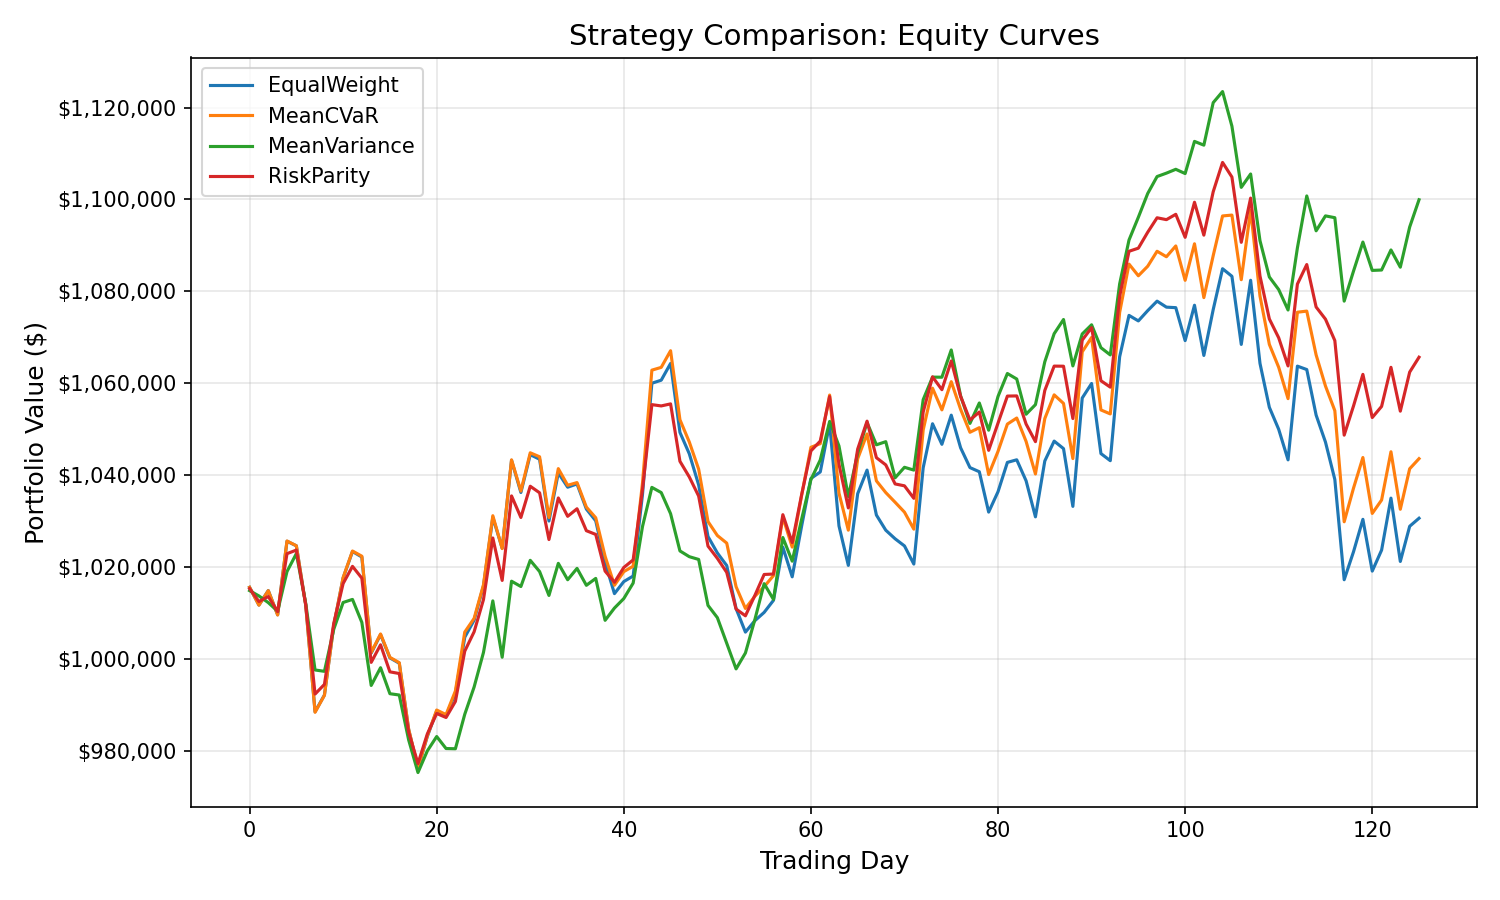
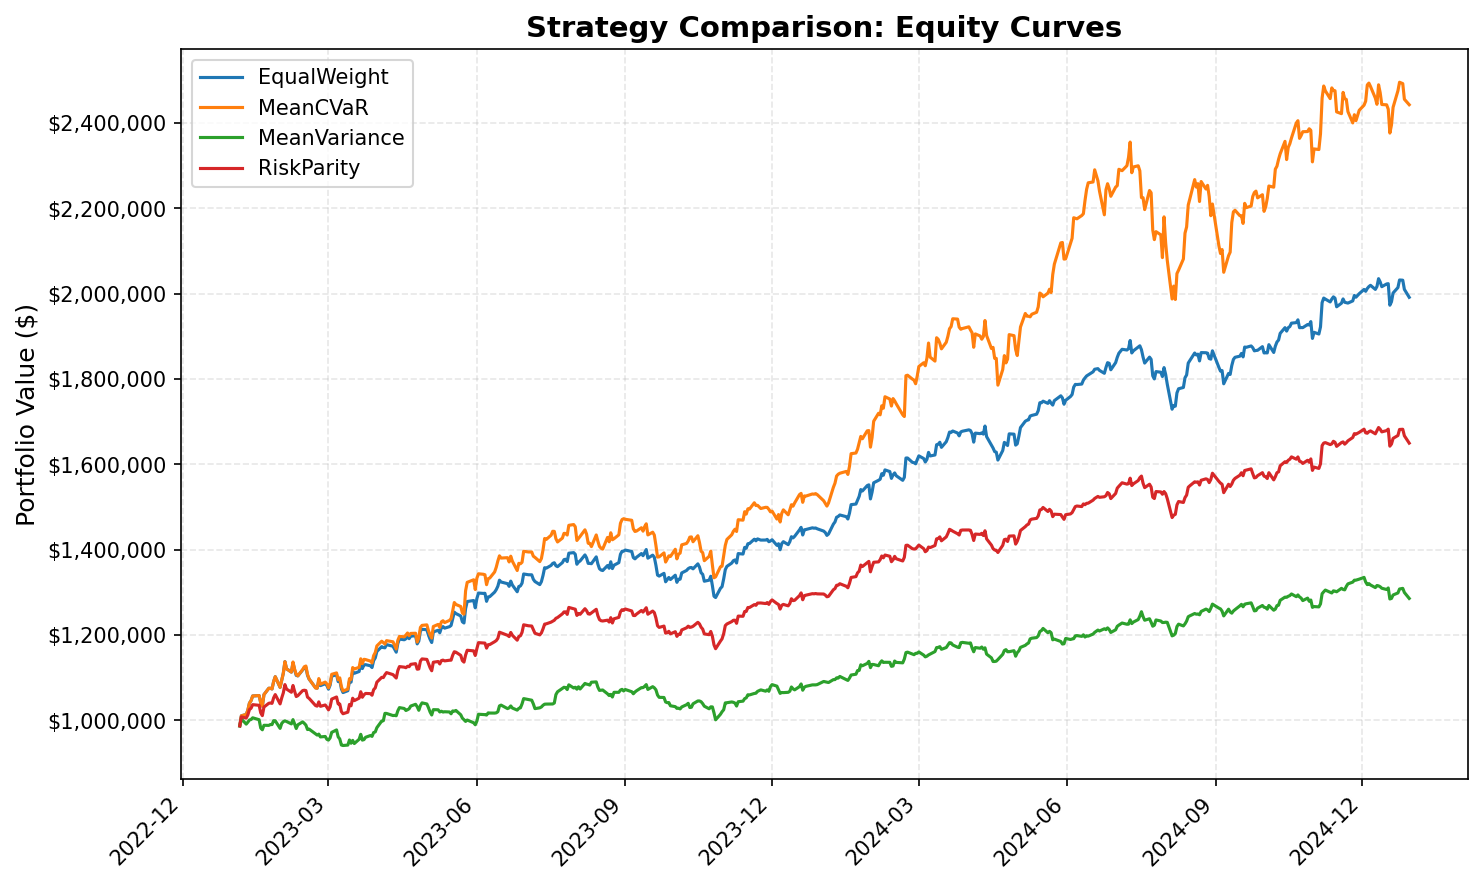
Add real S&P 500 data pipeline, update docs and output images
- Add scripts/download_data.py (yfinance downloader for 10 multi-sector stocks)
- Add config/optimize_sp500.json and config/backtest_sp500.json
- Update plot scripts: real date x-axis, improved styling
- Regenerate docs/images/ from real 2022-2024 market data
- Update README with real examples, backtest comparison table, data download instructions

diff --git a/scripts/plot_backtest.py b/scripts/plot_backtest.py
@@ -10,8 +10,10 @@ import argparse
 import glob
 import os
 import sys
+from datetime import datetime
 
 import matplotlib.pyplot as plt
+import matplotlib.dates as mdates
 import numpy as np
 
 
@@ -22,6 +24,16 @@ def load_equity_curve(csv_path):
     dates = data["date"]
     values = data["portfolio_value"]
     return dates, values
+
+
+def parse_dates(date_strings):
+    """Try to parse date strings into datetime objects."""
+    for fmt in ("%Y-%m-%d", "%Y/%m/%d", "%m/%d/%Y"):
+        try:
+            return [datetime.strptime(d, fmt) for d in date_strings]
+        except ValueError:
+            continue
+    return None
 
 
 def main():
@@ -46,14 +58,28 @@ def main():
         strategy = basename.replace("_equity.csv", "")
 
         dates, values = load_equity_curve(csv_path)
-        x = np.arange(len(dates))
-        ax.plot(x, values, linewidth=1.5, label=strategy)
 
-    ax.set_xlabel("Trading Day", fontsize=12)
+        # Try to parse real dates for x-axis.
+        parsed = parse_dates(dates)
+        if parsed is not None:
+            ax.plot(parsed, values, linewidth=1.5, label=strategy)
+        else:
+            x = np.arange(len(dates))
+            ax.plot(x, values, linewidth=1.5, label=strategy)
+
+    # Format x-axis based on whether we have real dates.
+    if parsed is not None:
+        ax.xaxis.set_major_locator(mdates.MonthLocator(interval=3))
+        ax.xaxis.set_major_formatter(mdates.DateFormatter("%Y-%m"))
+        fig.autofmt_xdate(rotation=45)
+    else:
+        ax.set_xlabel("Trading Day", fontsize=12)
+
     ax.set_ylabel("Portfolio Value ($)", fontsize=12)
-    ax.set_title("Strategy Comparison: Equity Curves", fontsize=14)
+    ax.set_title("Strategy Comparison: Equity Curves", fontsize=14,
+                 fontweight="bold")
     ax.legend(fontsize=10)
-    ax.grid(True, alpha=0.3)
+    ax.grid(True, alpha=0.3, linestyle="--")
 
     # Format y-axis as currency.
     ax.yaxis.set_major_formatter(
@@ -61,7 +87,7 @@ def main():
 
     plt.tight_layout()
     if args.output:
-        plt.savefig(args.output, dpi=150)
+        plt.savefig(args.output, dpi=150, bbox_inches="tight")
         print(f"Saved to {args.output}")
     else:
         plt.show()

diff --git a/scripts/download_data.py b/scripts/download_data.py
@@ -1,0 +1,60 @@
+#!/usr/bin/env python3
+"""Download real S&P 500 stock data for portfolio optimization demos.
+
+Downloads daily adjusted close prices for 10 multi-sector S&P 500 stocks
+using yfinance, and writes a wide-format CSV compatible with csv_loader.cpp.
+
+Usage:
+    pip install -r scripts/requirements.txt
+    python scripts/download_data.py
+"""
+
+import sys
+from pathlib import Path
+
+import yfinance as yf
+
+OUTPUT_PATH = Path(__file__).resolve().parent.parent / "data" / "sp500_prices.csv"
+
+# 10 S&P 500 stocks across sectors.
+TICKERS = ["AAPL", "MSFT", "NVDA", "GOOG", "JPM", "JNJ", "XOM", "PG", "AMZN", "V"]
+
+START_DATE = "2022-01-01"
+END_DATE = "2024-12-31"
+
+
+def main():
+    print(f"Downloading {len(TICKERS)} tickers: {', '.join(TICKERS)}")
+    print(f"Date range: {START_DATE} to {END_DATE}")
+
+    df = yf.download(TICKERS, start=START_DATE, end=END_DATE, auto_adjust=True)
+
+    # yfinance returns MultiIndex columns (Price, Ticker) -- extract Close.
+    if isinstance(df.columns, __import__("pandas").MultiIndex):
+        df = df["Close"]
+
+    # Ensure column order matches our ticker list.
+    df = df[TICKERS]
+
+    # Drop rows with any NaN (holidays, missing data).
+    n_before = len(df)
+    df = df.dropna()
+    n_after = len(df)
+    if n_before != n_after:
+        print(f"Dropped {n_before - n_after} rows with missing data")
+
+    # Write wide-format CSV: Date,AAPL,MSFT,...
+    OUTPUT_PATH.parent.mkdir(parents=True, exist_ok=True)
+    df.index.name = "Date"
+    df.to_csv(OUTPUT_PATH, float_format="%.4f")
+
+    print(f"\nSummary:")
+    print(f"  Rows:    {len(df)}")
+    print(f"  Tickers: {list(df.columns)}")
+    print(f"  From:    {df.index[0].strftime('%Y-%m-%d')}")
+    print(f"  To:      {df.index[-1].strftime('%Y-%m-%d')}")
+    print(f"  Written: {OUTPUT_PATH}")
+
+
+if __name__ == "__main__":
+    main()

diff --git a/scripts/plot_frontier.py b/scripts/plot_frontier.py
@@ -30,23 +30,25 @@ def main():
     cvars = data["cvar"] * 100
 
     fig, ax = plt.subplots(figsize=(8, 5))
-    ax.plot(cvars, returns, "b-o", markersize=6, linewidth=1.5)
+    ax.plot(cvars, returns, "b-o", markersize=7, linewidth=2, zorder=3)
     ax.set_xlabel("CVaR (95%) [%]", fontsize=12)
     ax.set_ylabel("Expected Return [%]", fontsize=12)
-    ax.set_title("Mean-CVaR Efficient Frontier", fontsize=14)
-    ax.grid(True, alpha=0.3)
+    ax.set_title("Mean-CVaR Efficient Frontier", fontsize=14, fontweight="bold")
+    ax.grid(True, alpha=0.3, linestyle="--")
 
     # Annotate endpoints.
     ax.annotate(f"Min risk\n{cvars[0]:.2f}%",
                 xy=(cvars[0], returns[0]),
-                textcoords="offset points", xytext=(15, -10), fontsize=9)
+                textcoords="offset points", xytext=(15, -10), fontsize=9,
+                arrowprops=dict(arrowstyle="->", color="grey", lw=0.8))
     ax.annotate(f"Max return\n{returns[-1]:.2f}%",
                 xy=(cvars[-1], returns[-1]),
-                textcoords="offset points", xytext=(15, -10), fontsize=9)
+                textcoords="offset points", xytext=(15, -10), fontsize=9,
+                arrowprops=dict(arrowstyle="->", color="grey", lw=0.8))
 
     plt.tight_layout()
     if args.output:
-        plt.savefig(args.output, dpi=150)
+        plt.savefig(args.output, dpi=150, bbox_inches="tight")
         print(f"Saved to {args.output}")
     else:
         plt.show()

diff --git a/README.md b/README.md
@@ -171,11 +171,19 @@ ctest --test-dir build -C Release --output-on-failure
 ### Run
 
 ```bash
+# Download real S&P 500 data (10 stocks, 2022-2024)
+pip install -r scripts/requirements.txt
+python scripts/download_data.py
+
 # Portfolio optimization (efficient frontier)
-./build/Release/optimize --config config/optimize_5asset.json --output results/optimize/
+./build/Release/optimize --config config/optimize_sp500.json --output results/optimize_sp500/
 
 # Backtest with strategy comparison
-./build/Release/backtest --config config/backtest_5asset.json --output results/backtest/
+./build/Release/backtest --config config/backtest_sp500.json --output results/backtest_sp500/
+
+# Generate plots
+python scripts/plot_frontier.py results/optimize_sp500/frontier.csv -o docs/images/frontier.png
+python scripts/plot_backtest.py results/backtest_sp500/ -o docs/images/equity_curves.png
 
 # Benchmarks
 ./build/Release/bench_monte_carlo
@@ -184,34 +192,57 @@ ctest --test-dir build -C Release --output-on-failure
 ./build/Release/bench_factor_model
 ```
 
+#### Quick start (synthetic data)
+
+No Python or internet needed -- use the synthetic data configs:
+```bash
+python scripts/generate_sample_data.py
+./build/Release/optimize --config config/optimize_5asset.json --output results/optimize/
+./build/Release/backtest --config config/backtest_5asset.json --output results/backtest/
+```
+
 ## Example: Efficient Frontier
 
 ```bash
-./build/Release/optimize --config config/optimize_5asset.json --output results/
+./build/Release/optimize --config config/optimize_sp500.json --output results/optimize_sp500/
 ```
 
-Output:
+Output (10 S&P 500 stocks: AAPL, MSFT, NVDA, GOOG, JPM, JNJ, XOM, PG, AMZN, V):
 ```
-Efficient Frontier (10 points)
-  Target Ret   Achieved Ret         CVaR  Iters  Conv
-    0.020000     0.030548     0.244036     42   yes
-    0.024444     0.030548     0.244036     17   yes
-    0.028889     0.030548     0.244036     15   yes
-    0.033333     0.033317     0.247964     80   yes
-    0.037778     0.034867     0.257314    142   yes
-    ...
+Efficient Frontier (15 points)
+    Target Ret Achieved Ret         CVaR  Iters  Conv
+     -0.000070     0.000334     0.016154    500    no
+      0.000122     0.000332     0.016151    232   yes
+      0.000507     0.000507     0.016689    498   yes
+      0.000699     0.000699     0.018242    500    no
+      0.001276     0.001275     0.027362    436   yes
+      0.001853     0.001852     0.041009     46   yes
+      0.002623     0.002620     0.069248     29   yes
+
+Risk Decomposition (min-CVaR point):
+      AAPL: weight=0.0000  CVaR_j=0.000000  (0.0%)
+      MSFT: weight=0.0511  CVaR_j=0.000852  (5.3%)
+       JNJ: weight=0.3549  CVaR_j=0.005556  (34.4%)
+       XOM: weight=0.1597  CVaR_j=0.002638  (16.3%)
+        PG: weight=0.2953  CVaR_j=0.004795  (29.7%)
 ```
 
-Results are written to `results/frontier.csv` and `results/frontier_result.json`.
+Results are written to `results/optimize_sp500/frontier.csv` and `results/optimize_sp500/frontier_result.json`.
 
 ## Example: Backtest
 
 ```bash
-# Generate synthetic price data first
-python scripts/generate_sample_data.py
-
-./build/Release/backtest --config config/backtest_5asset.json --output results/backtest/
+./build/Release/backtest --config config/backtest_sp500.json --output results/backtest_sp500/
 ```
+
+4-strategy comparison on S&P 500 data (2023-2024, monthly rebalancing):
+
+| Strategy | Total Return | Sharpe | Max Drawdown |
+|---|---|---|---|
+| EqualWeight | 101.6% | 3.10 | 8.5% |
+| MeanCVaR | 147.3% | 2.91 | 15.7% |
+| RiskParity | 67.1% | 2.61 | 7.7% |
+| MeanVariance | 30.3% | 1.44 | 8.2% |
 
 Outputs equity curves, weights, and strategy comparison (CSV + JSON) for all four strategies.
 
